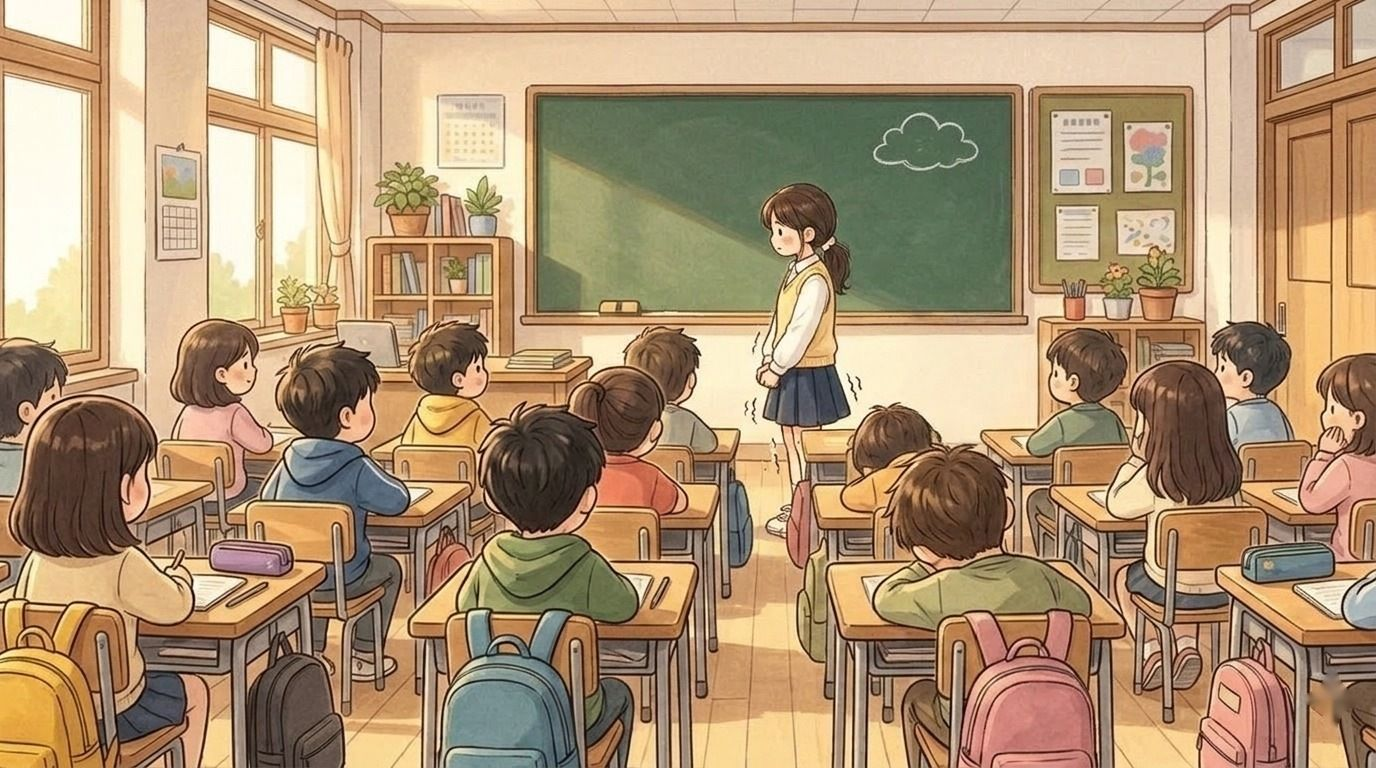
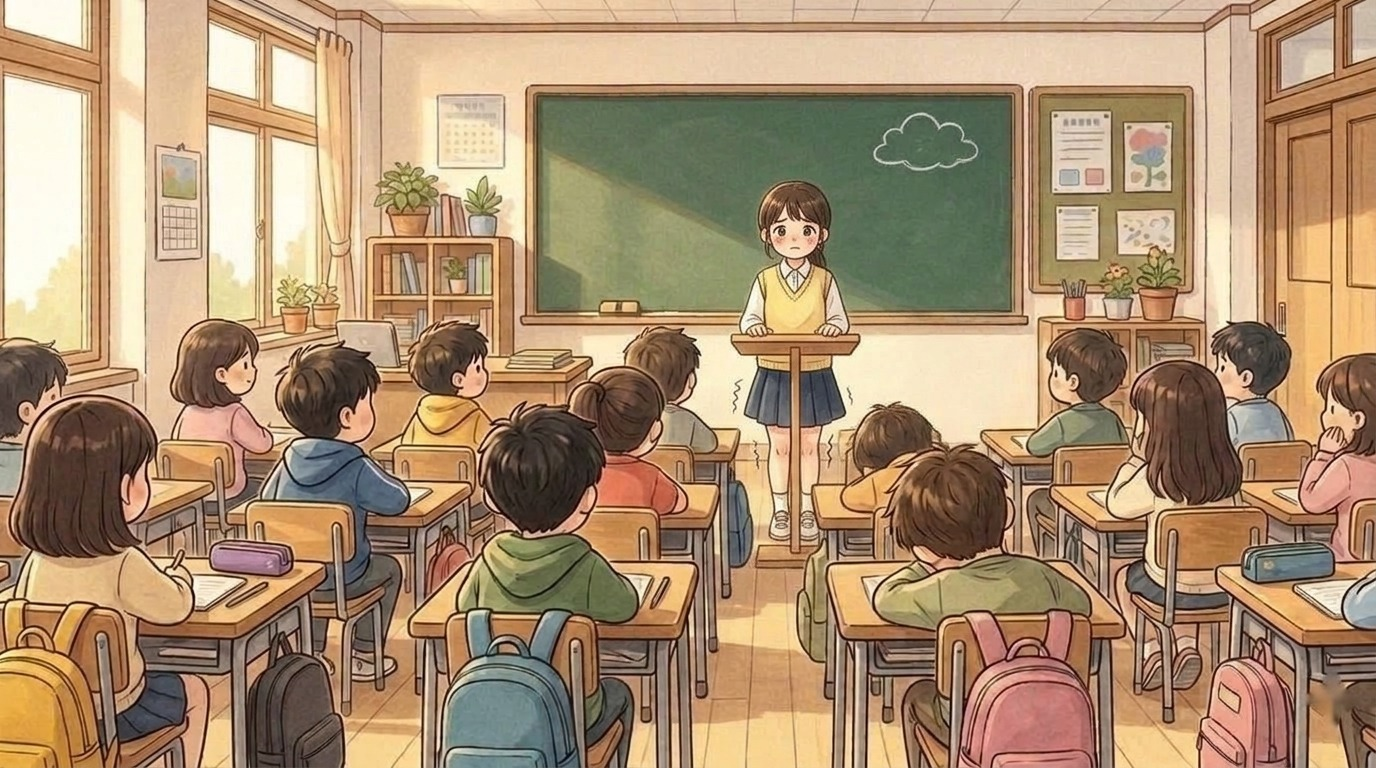
결말 연설 그림: 교탁 뒤에서 반 친구들을 보고 서도록 다시 그림

Changed region(s): [[0.5312, 0.2188, 0.6875, 0.75]]

diff --git a/index.html b/index.html
@@ -119,14 +119,14 @@ body,button{word-break:keep-all;overflow-wrap:break-word}
 <div id="fader"></div>
 <script>
 // same address, newest version: if the page this phone has kept is older than the one online, fetch the new one and reopen
-const BUILD='1114151344';
+const BUILD='1114165524';
 try{fetch(location.pathname,{cache:'no-store'}).then(r=>r.text()).then(t=>{const m=t.match(/const BUILD='(\d+)'/);if(m&&m[1]!==BUILD&&sessionStorage.getItem('upd')!==m[1]){sessionStorage.setItem('upd',m[1]);fetch(location.pathname,{cache:'reload'}).then(()=>location.reload())}}).catch(()=>{})}catch(e){}
 </script>
-<script src="i18n.js?v=1114151344"></script>
-<script src="i18n_prologue_v2.js?v=1114151344"></script>
-<script src="day2/i18n_engine.js?v=1114151344"></script>
-<script src="day2/data.js?v=1114151344"></script>
-<script src="day3/data.js?v=1114151344"></script>
+<script src="i18n.js?v=1114165524"></script>
+<script src="i18n_prologue_v2.js?v=1114165524"></script>
+<script src="day2/i18n_engine.js?v=1114165524"></script>
+<script src="day2/data.js?v=1114165524"></script>
+<script src="day3/data.js?v=1114165524"></script>
 <script>
 // ---------- data ----------
 const MW=1672,MH=941,KID=180;
@@ -581,37 +581,37 @@ function pickHero(){const m=document.getElementById('modal'),c=document.getEleme
  c.innerHTML=`<h2>${tr('전학생 반장되기')}</h2><p>${tr('한국말이 아직 서툰 전학생,<br>반장 선거에 나가다.')}</p><p style="margin-top:14px">${tr('누구로 할까요?')}</p>${(()=>{const s=loadSave();return s&&s.day>=2&&s.mode===UI+'-'+LANG?`<p><button class="big" id="cont">${tr('{n}일차부터 이어 하기').replace('{n}',s.day)}</button></p>`:''})()}<div class="pick heroes"><button data-h="hero_f"><img src="faces/hero_f_smile.jpg" alt="여자 주인공">${heroName(1)}</button><button data-h="hero_m"><img src="faces/hero_m_smile.jpg" alt="남자 주인공">${heroName(0)}</button></div>`;
  m.classList.add('on');{const cb=document.getElementById('cont');if(cb)cb.onclick=()=>{const s=loadSave();HERO=s.hero;Object.assign(HEART,s.heart||{});(s.found||[]).forEach(k=>FOUND.add(k));HEART_D1={...HEART};chime();(typeof contGame==='function'?contGame(s):startDay(Math.min(s.day,Object.keys(window.D3||{}).length?3:2)))}}c.querySelectorAll('.pick button').forEach(b=>b.onclick=()=>{HERO=b.dataset.h;m.classList.remove('on');chime();bgm('day');load('home_am');say([['nar','','이사 온 다음 날 아침. 아직 풀지 못한 상자들이 쌓여 있다.'],['think','sad','(오늘부터 새 학교야. 여기 말도 아직 서툰데…….)'],['think','smile','({m}한테 인사하고 학교 가야지.)']],morning)})}
 </script>
-<script src="day2/engine.js?v=1114151344"></script>
-<script src="day2/ep_minho.js?v=1114151344"></script>
-<script src="day2/meet.js?v=1114151344"></script>
-<script src="day2/ep_sua.js?v=1114151344"></script>
-<script src="day2/ep_hangyeol.js?v=1114151344"></script>
-<script src="day2/ep_siwoo.js?v=1114151344"></script>
-<script src="day2/ep_haram.js?v=1114151344"></script>
-<script src="day2/ep_jiho.js?v=1114151344"></script>
-<script src="day2/ep_hyeeun.js?v=1114151344"></script>
-<script src="day2/ep_haneul.js?v=1114151344"></script>
-<script src="day2/ep_junho.js?v=1114151344"></script>
-<script src="day2/ep_yuna.js?v=1114151344"></script>
-<script src="day2/ep_yena.js?v=1114151344"></script>
-<script src="day2/ep_haeun.js?v=1114151344"></script>
-<script src="day2/ep_youngmin.js?v=1114151344"></script>
-<script src="day2/ep_seah.js?v=1114151344"></script>
-<script src="day2/ep_jihoon.js?v=1114151344"></script>
-<script src="words_ja_ru.js?v=1114151344"></script>
-<script src="day2/mybag.js?v=1114151344"></script>
-<script src="day2/wordpics.js?v=1114151344"></script>
-<script src="day2/spots.js?v=1114151344"></script>
-<script src="day2/textfit.js?v=1114151344"></script>
-<script src="day2/tester.js?v=1114151344"></script>
-<script src="day2/ux.js?v=1114151344"></script>
-<script src="day2/tapword.js?v=1114151344"></script>
-<script src="day2/review.js?v=1114151344"></script>
-<script src="day2/plane.js?v=1114151344"></script>
-<script src="day2/bubble.js?v=1114151344"></script>
-<script src="day2/ep_ending.js?v=1114151344"></script>
-<script src="day2/ending.js?v=1114151344"></script>
-<script src="day2/stats.js?v=1114151344"></script>
+<script src="day2/engine.js?v=1114165524"></script>
+<script src="day2/ep_minho.js?v=1114165524"></script>
+<script src="day2/meet.js?v=1114165524"></script>
+<script src="day2/ep_sua.js?v=1114165524"></script>
+<script src="day2/ep_hangyeol.js?v=1114165524"></script>
+<script src="day2/ep_siwoo.js?v=1114165524"></script>
+<script src="day2/ep_haram.js?v=1114165524"></script>
+<script src="day2/ep_jiho.js?v=1114165524"></script>
+<script src="day2/ep_hyeeun.js?v=1114165524"></script>
+<script src="day2/ep_haneul.js?v=1114165524"></script>
+<script src="day2/ep_junho.js?v=1114165524"></script>
+<script src="day2/ep_yuna.js?v=1114165524"></script>
+<script src="day2/ep_yena.js?v=1114165524"></script>
+<script src="day2/ep_haeun.js?v=1114165524"></script>
+<script src="day2/ep_youngmin.js?v=1114165524"></script>
+<script src="day2/ep_seah.js?v=1114165524"></script>
+<script src="day2/ep_jihoon.js?v=1114165524"></script>
+<script src="words_ja_ru.js?v=1114165524"></script>
+<script src="day2/mybag.js?v=1114165524"></script>
+<script src="day2/wordpics.js?v=1114165524"></script>
+<script src="day2/spots.js?v=1114165524"></script>
+<script src="day2/textfit.js?v=1114165524"></script>
+<script src="day2/tester.js?v=1114165524"></script>
+<script src="day2/ux.js?v=1114165524"></script>
+<script src="day2/tapword.js?v=1114165524"></script>
+<script src="day2/review.js?v=1114165524"></script>
+<script src="day2/plane.js?v=1114165524"></script>
+<script src="day2/bubble.js?v=1114165524"></script>
+<script src="day2/ep_ending.js?v=1114165524"></script>
+<script src="day2/ending.js?v=1114165524"></script>
+<script src="day2/stats.js?v=1114165524"></script>
 <script>
 // the goal shows big for a few seconds, then folds into a small pill (tap it to open it again)
 {const g=document.getElementById('goal');let t=null;const big=()=>{g.classList.remove('mini');clearTimeout(t);t=setTimeout(()=>g.classList.add('mini'),4000)};
